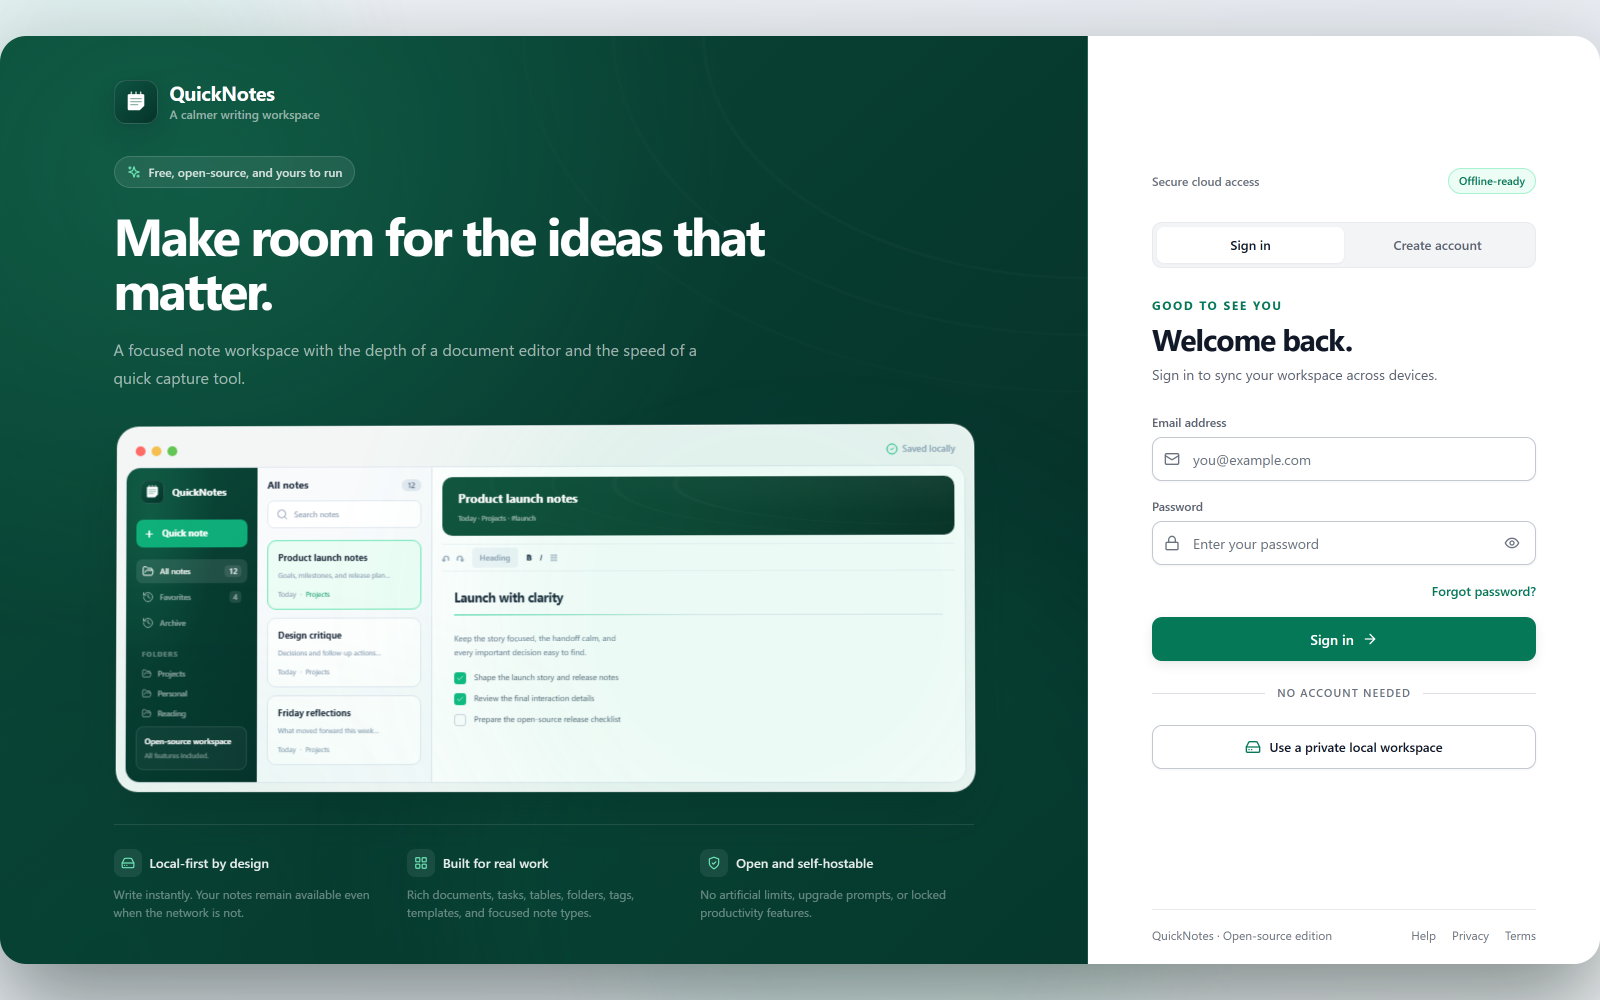
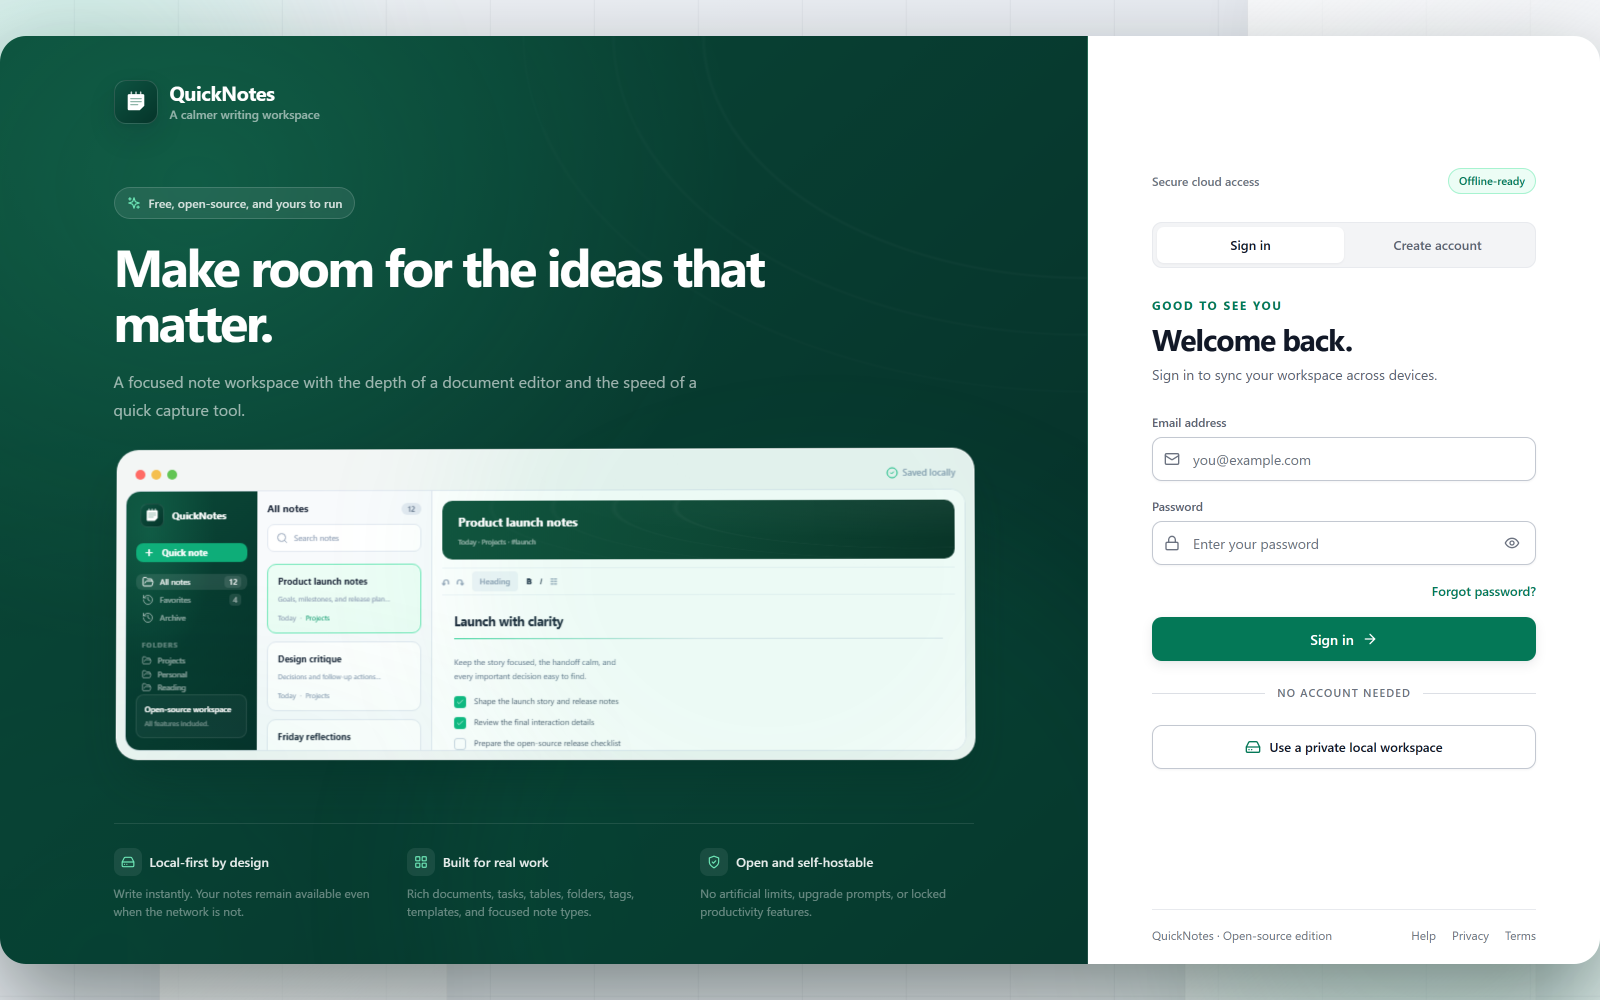
fix: stop clipping the sign-in hero, and give the canvas a quiet moving backdrop
Clipping:
- The hero column carries a fixed stack — brand, headline, preview, feature
  strip — that is taller than a laptop window, and the card clipped whatever
  did not fit. On a 1920x1080 monitor the feature descriptions were cut off.
  Measured at 1920x965 the column needed 1197px inside 893px
- The preview now steps down with the window height and the feature strip
  drops out before anything can be cut. Verified from 1920x1040 down to
  1280x720: nothing is clipped at any of them

Canvas:
- The sign-in backdrop is a light working surface with a faint blueprint
  grid, soft panels and dot clusters drifting slowly across it, plus a hint
  of brand colour. Decoration only — the card in the centre is unchanged
- Honours prefers-reduced-motion, and has a dark-theme variant

diff --git a/src/index.css b/src/index.css
@@ -642,15 +642,173 @@ input[type="datetime-local"]:not([class*="opacity-0"]):focus {
   animation: auth-form-in 0.4s ease-out;
 }
 
-/* The sign-in page uses the same canvas as the workspace, so the hero panel
-   reads as a card resting on it. Light in the light theme — this is a working
-   tool, not a night-mode product — and a deep neutral in the dark theme. */
+/* Sign-in canvas.
+   A light working surface with a faint blueprint grid, a few soft panels and
+   dot clusters drifting very slowly across it. Everything here is decoration
+   behind the card: the panel in the centre is untouched. */
 .qn-auth-page {
-  background: linear-gradient(135deg, #eef1f5, #e7ebf1 55%, #f2f4f7);
+  background:
+    linear-gradient(135deg, #eef1f5, #e7ebf1 55%, #f2f4f7);
+}
+
+.qn-auth-page::before {
+  content: '';
+  position: absolute;
+  inset: -15%;
+  pointer-events: none;
+  background-image:
+    linear-gradient(to right, rgba(15, 23, 42, 0.045) 1px, transparent 1px),
+    linear-gradient(to bottom, rgba(15, 23, 42, 0.045) 1px, transparent 1px);
+  background-size: 104px 104px;
+  animation: qn-bg-grid 120s linear infinite;
 }
 
 .dark .qn-auth-page {
   background: linear-gradient(135deg, #12171c, #0d1116 55%, #151b21);
+}
+
+.dark .qn-auth-page::before {
+  background-image:
+    linear-gradient(to right, rgba(255, 255, 255, 0.04) 1px, transparent 1px),
+    linear-gradient(to bottom, rgba(255, 255, 255, 0.04) 1px, transparent 1px);
+}
+
+/* Soft panels: large, low-contrast rounded rectangles that drift and breathe. */
+.qn-auth-panel {
+  position: absolute;
+  border-radius: 26px;
+  border: 1px solid rgba(15, 23, 42, 0.05);
+  background: linear-gradient(140deg, rgba(255, 255, 255, 0.75), rgba(255, 255, 255, 0.25));
+  box-shadow: 0 24px 60px rgba(15, 23, 42, 0.04);
+  will-change: transform;
+}
+
+.dark .qn-auth-panel {
+  border-color: rgba(255, 255, 255, 0.05);
+  background: linear-gradient(140deg, rgba(255, 255, 255, 0.045), rgba(255, 255, 255, 0.012));
+  box-shadow: none;
+}
+
+.qn-auth-panel--a {
+  left: -6%;
+  top: 8%;
+  width: 26vw;
+  height: 30vh;
+  animation: qn-bg-float-a 34s ease-in-out infinite;
+}
+
+.qn-auth-panel--b {
+  right: -8%;
+  top: -6%;
+  width: 30vw;
+  height: 34vh;
+  border-radius: 34px;
+  animation: qn-bg-float-b 44s ease-in-out infinite;
+}
+
+.qn-auth-panel--c {
+  right: 4%;
+  bottom: -10%;
+  width: 22vw;
+  height: 32vh;
+  animation: qn-bg-float-a 52s ease-in-out infinite reverse;
+}
+
+.qn-auth-panel--d {
+  left: 10%;
+  bottom: -14%;
+  width: 18vw;
+  height: 26vh;
+  border-radius: 20px;
+  animation: qn-bg-float-b 38s ease-in-out infinite reverse;
+}
+
+/* Dot clusters, the blueprint detail from the reference. */
+.qn-auth-dots {
+  position: absolute;
+  background-image: radial-gradient(circle, rgba(15, 23, 42, 0.16) 1.1px, transparent 1.4px);
+  background-size: 17px 17px;
+  opacity: 0.5;
+  will-change: transform;
+}
+
+.dark .qn-auth-dots {
+  background-image: radial-gradient(circle, rgba(255, 255, 255, 0.14) 1.1px, transparent 1.4px);
+  opacity: 0.35;
+}
+
+.qn-auth-dots--a {
+  left: 3%;
+  bottom: 16%;
+  width: 190px;
+  height: 130px;
+  animation: qn-bg-float-b 40s ease-in-out infinite;
+}
+
+.qn-auth-dots--b {
+  right: 12%;
+  top: 12%;
+  width: 150px;
+  height: 110px;
+  animation: qn-bg-float-a 46s ease-in-out infinite reverse;
+}
+
+/* A whisper of brand colour so the canvas is not purely grey. */
+.qn-auth-glow {
+  position: absolute;
+  border-radius: 999px;
+  filter: blur(90px);
+  will-change: transform;
+}
+
+.qn-auth-glow--a {
+  left: -10%;
+  top: -12%;
+  width: 460px;
+  height: 460px;
+  background: rgba(52, 211, 153, 0.16);
+  animation: qn-bg-float-a 56s ease-in-out infinite;
+}
+
+.qn-auth-glow--b {
+  right: -6%;
+  bottom: -16%;
+  width: 520px;
+  height: 520px;
+  background: rgba(16, 185, 129, 0.12);
+  animation: qn-bg-float-b 64s ease-in-out infinite reverse;
+}
+
+.dark .qn-auth-glow--a {
+  background: rgba(52, 211, 153, 0.1);
+}
+
+.dark .qn-auth-glow--b {
+  background: rgba(16, 185, 129, 0.08);
+}
+
+@keyframes qn-bg-grid {
+  from { transform: translate3d(0, 0, 0); }
+  to { transform: translate3d(104px, 104px, 0); }
+}
+
+@keyframes qn-bg-float-a {
+  0%, 100% { transform: translate3d(0, 0, 0) scale(1); }
+  50% { transform: translate3d(2.2vw, -2.4vh, 0) scale(1.04); }
+}
+
+@keyframes qn-bg-float-b {
+  0%, 100% { transform: translate3d(0, 0, 0) scale(1); }
+  50% { transform: translate3d(-2.6vw, 2.2vh, 0) scale(1.05); }
+}
+
+@media (prefers-reduced-motion: reduce) {
+  .qn-auth-page::before,
+  .qn-auth-panel,
+  .qn-auth-dots,
+  .qn-auth-glow {
+    animation: none !important;
+  }
 }
 
 /* Sign-in hero and navigation rail share one material: an emerald-tinted deep
@@ -725,13 +883,43 @@ input[type="datetime-local"]:not([class*="opacity-0"]):focus {
   transform-origin: 50% 100%;
 }
 
-@media (max-height: 840px) and (min-width: 1024px) {
+/* The hero column carries a fixed stack — brand, headline, preview, feature
+   strip — that is taller than a laptop window. Rather than clipping it, the
+   preview shrinks as the window gets shorter and the feature strip steps out
+   before anything can be cut off. */
+@media (min-width: 1024px) and (max-height: 1010px) {
   .qn-auth-preview {
-    margin-top: 1rem;
+    margin-top: 1.5rem;
   }
 
   .qn-auth-preview > div:last-child {
-    height: 270px;
+    height: 262px;
+  }
+}
+
+@media (min-width: 1024px) and (max-height: 920px) {
+  .qn-auth-preview {
+    margin-top: 1.15rem;
+  }
+
+  .qn-auth-preview > div:last-child {
+    height: 216px;
+  }
+}
+
+@media (min-width: 1024px) and (max-height: 860px) {
+  .qn-auth-preview > div:last-child {
+    height: 186px;
+  }
+
+  .qn-auth-features {
+    display: none !important;
+  }
+}
+
+@media (min-width: 1024px) and (max-height: 760px) {
+  .qn-auth-preview {
+    display: none;
   }
 }
 

diff --git a/src/components/AuthScreen.jsx b/src/components/AuthScreen.jsx
@@ -732,9 +732,15 @@ export default function AuthScreen() {
   // instead just produced one large green field with the card lost inside it.
   return (
     <div className="qn-auth-page relative flex min-h-[100dvh] items-center justify-center overflow-hidden text-content">
-      <div className="pointer-events-none absolute inset-0 opacity-80" aria-hidden="true">
-        <div className="absolute -left-24 -top-32 h-[420px] w-[420px] rounded-full bg-[rgba(52,211,153,0.10)] blur-3xl" />
-        <div className="absolute -bottom-40 right-[28%] h-[520px] w-[520px] rounded-full bg-[rgba(16,185,129,0.10)] blur-3xl" />
+      <div className="qn-auth-bg pointer-events-none absolute inset-0" aria-hidden="true">
+        <span className="qn-auth-panel qn-auth-panel--a" />
+        <span className="qn-auth-panel qn-auth-panel--b" />
+        <span className="qn-auth-panel qn-auth-panel--c" />
+        <span className="qn-auth-panel qn-auth-panel--d" />
+        <span className="qn-auth-dots qn-auth-dots--a" />
+        <span className="qn-auth-dots qn-auth-dots--b" />
+        <span className="qn-auth-glow qn-auth-glow--a" />
+        <span className="qn-auth-glow qn-auth-glow--b" />
       </div>
 
       <main className="relative z-10 grid h-[100dvh] w-full max-w-[1680px] overflow-hidden lg:grid-cols-[minmax(0,1.06fr)_clamp(430px,32vw,660px)] 2xl:h-[min(100dvh-72px,1000px)] 2xl:rounded-[26px] 2xl:shadow-[0_40px_90px_rgba(2,20,14,0.45)]">
@@ -759,7 +765,7 @@ export default function AuthScreen() {
             <WorkspacePreview />
           </div>
 
-          <div className="relative z-10 mx-auto hidden w-full max-w-[860px] grid-cols-3 gap-5 border-t border-white/10 pt-6 xl:grid">
+          <div className="qn-auth-features relative z-10 mx-auto hidden w-full max-w-[860px] grid-cols-3 gap-5 border-t border-white/10 pt-6 xl:grid">
             {FEATURE_POINTS.map(({ icon: Icon, title, description }) => (
               <div key={title} className="min-w-0">
                 <div className="mb-2 flex items-center gap-2">
